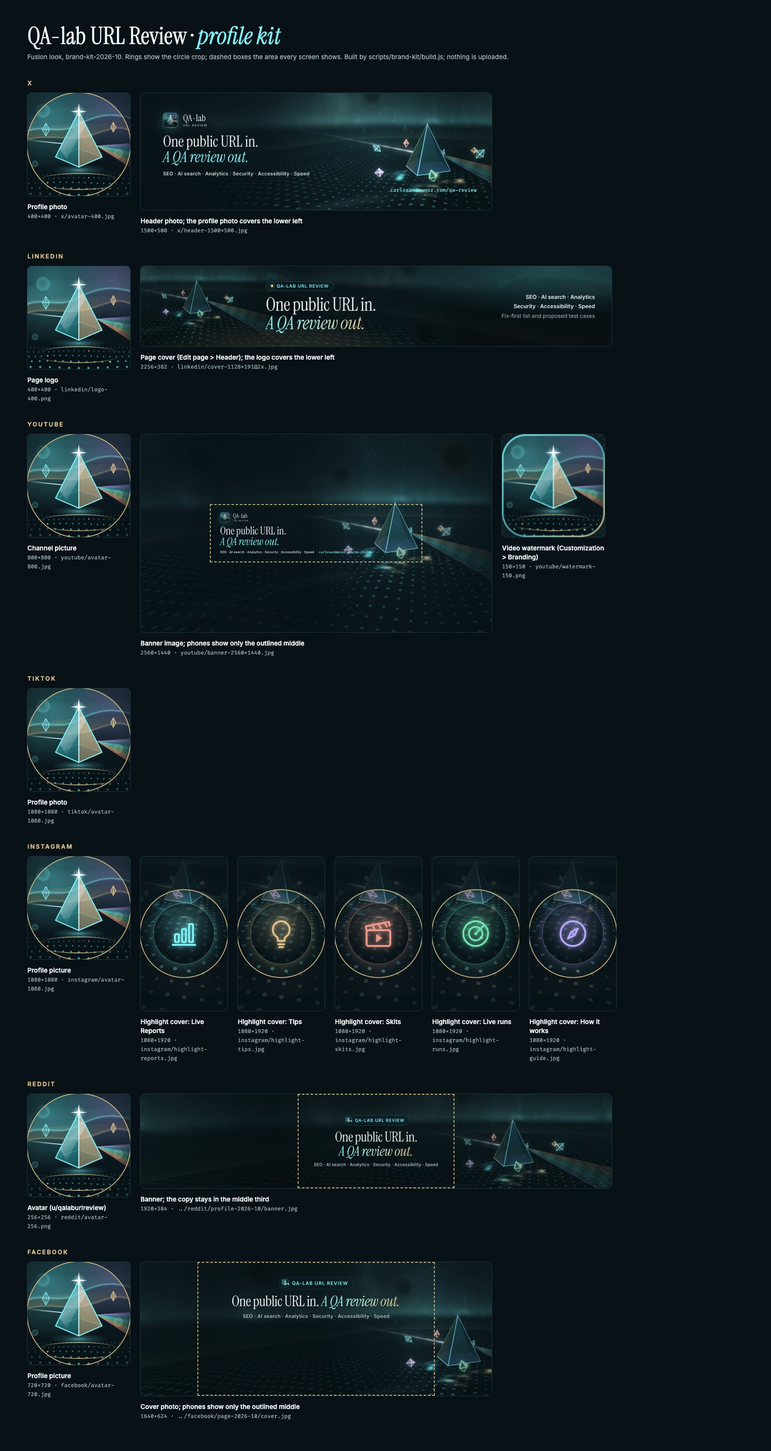
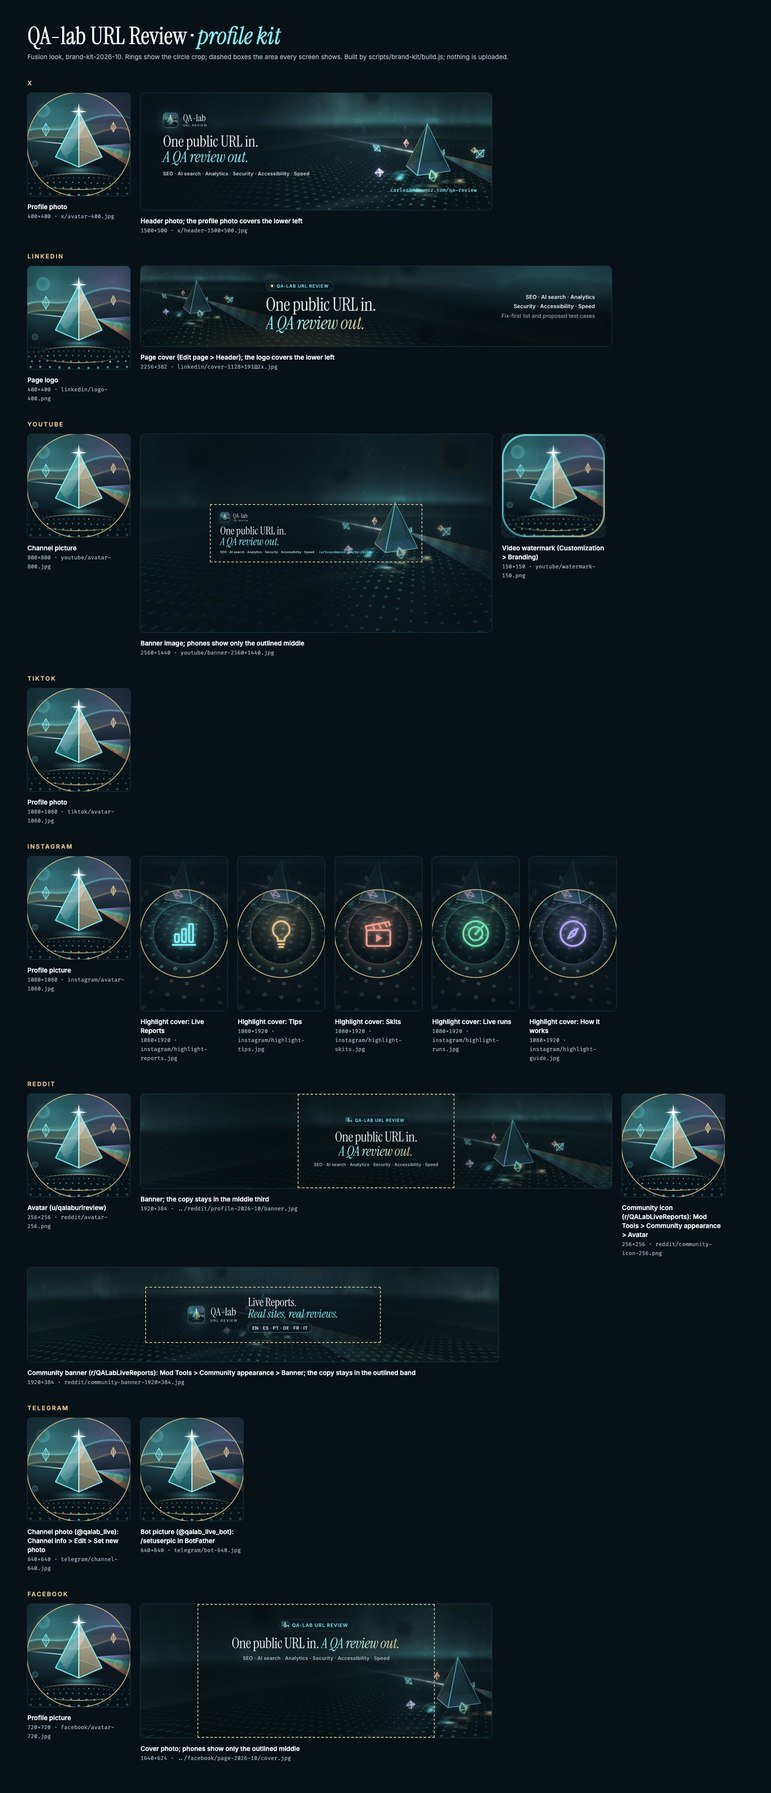
Kits: Live Reports links on Telegram and r/QALabLiveReports; Telegram and subreddit images in the brand kit (#2568)

diff --git a/scripts/brand-kit/build.js b/scripts/brand-kit/build.js
@@ -1,8 +1,9 @@
 #!/usr/bin/env node
 /* Renders the QA-lab URL Review profile kit in the Fusion look: avatars, banners and covers for X, LinkedIn,
-   YouTube, TikTok, Instagram, Reddit and Facebook, plus a contact sheet of the whole kit.
+   YouTube, TikTok, Instagram, Reddit and Facebook, the Live Reports channels on Telegram and r/QALabLiveReports
+   (#2568), plus a contact sheet of the whole kit.
 
-     node scripts/brand-kit/build.js [--batch brand-kit-2026-10]
+     node scripts/brand-kit/build.js [--batch brand-kit-2026-10] [--missing]   # --missing: only files not there yet
      node scripts/brand-kit/build.js --face en|es [--batch faces-2026-11/en]
      node scripts/brand-kit/build.js --face en|es --text   # kit.json and checklist.md only, images untouched
 
@@ -29,6 +30,7 @@ const FACE = faceAt >= 0 ? faces.FACES[argv[faceAt + 1]] : null;
 if (faceAt >= 0 && !FACE) throw new Error("--face takes " + Object.keys(faces.FACES).join(" or "));
 const TEXT = argv.includes("--text");
 if (TEXT && !FACE) throw new Error("--text takes --face");
+const MISSING = argv.includes("--missing");
 const BATCH = batchAt >= 0 && argv[batchAt + 1] ? argv[batchAt + 1] : FACE ? "faces-2026-11/" + FACE.id : "brand-kit-2026-10";
 const OUT = path.join(ROOT, "media", BATCH);
 
@@ -39,6 +41,8 @@ const THEMES = [
   { id: "runs", label: "Live runs", icon: "runs", accent: "#6fe3b1" },
   { id: "guide", label: "How it works", icon: "guide", accent: "#b9a8ff" }
 ];
+
+const LIVE = { lines: ["Live Reports.", "*Real sites, real reviews.*"], langs: "EN · ES · PT · DE · FR · IT" };
 
 // circle: the network crops the picture to a circle. fx: where the Fusion pyramid stands (see scripts/fusion/stage.js).
 const KIT = [
@@ -54,6 +58,11 @@ const KIT = [
   ...THEMES.map((theme) => ({ network: "Instagram", file: "instagram/highlight-" + theme.id + ".jpg", w: 1080, h: 1920, kind: "highlight", theme, fx: { subject: [0, 0.3], zoom: 2.4, t: 9.5 }, circle: "highlight", where: "Highlight cover: " + theme.label })),
   { network: "Reddit", file: "reddit/avatar-256.png", w: 256, h: 256, kind: "avatar", circle: true, where: "Avatar (u/qalaburlreview)" },
   { network: "Reddit", file: "media/reddit/profile-2026-10/banner.jpg", w: 1920, h: 384, studio: "reddit-studio", safe: [640, 0, 640, 384], where: "Banner; the copy stays in the middle third" },
+  { network: "Reddit", file: "reddit/community-icon-256.png", w: 256, h: 256, kind: "avatar", circle: true, where: "Community icon (r/QALabLiveReports): Mod Tools > Community appearance > Avatar" },
+  // Reddit crops a community banner to an 8:1 band (uploads of at least 1072x128 on desktop, 1080x128 in the apps).
+  { network: "Reddit", file: "reddit/community-banner-1920x384.jpg", w: 1920, h: 384, kind: "strip", copy: LIVE, fx: { subject: [0, 0], zoom: 1.6 }, safe: [480, 77, 960, 230], where: "Community banner (r/QALabLiveReports): Mod Tools > Community appearance > Banner; the copy stays in the outlined band" },
+  { network: "Telegram", file: "telegram/channel-640.jpg", w: 640, h: 640, kind: "avatar", circle: true, where: "Channel photo (@qalab_live): Channel info > Edit > Set new photo" },
+  { network: "Telegram", file: "telegram/bot-640.jpg", w: 640, h: 640, kind: "avatar", circle: true, where: "Bot picture (@qalab_live_bot): /setuserpic in BotFather" },
   { network: "Facebook", file: "facebook/avatar-720.jpg", w: 720, h: 720, kind: "avatar", circle: true, where: "Profile picture" },
   { network: "Facebook", file: "media/facebook/page-2026-10/cover.jpg", w: 1640, h: 624, studio: "facebook-studio", safe: [265, 0, 1109, 624], where: "Cover photo; phones show only the outlined middle" }
 ];
@@ -74,10 +83,14 @@ function account(n) {
   const links = [["Website", site], ["Social hub", hub]]
     .concat(FACE.extra ? [[FACE.extra.label, faces.SITE + FACE.extra.page + faces.utm(n.id, FACE.id)]] : [])
     .concat([[otherLangs, n.profile(other.handle)]]);
+  const cap = (label) => Number(((label || "").match(/\((\d+)\)/) || [])[1]);
+  // When only one channel fits, the one on the network's own app stays.
+  const channels = (room) => faces.CHANNELS.filter((c) => c.app === n.name).concat(faces.CHANNELS.filter((c) => c.app !== n.name))
+    .slice(0, Math.max(room, 0)).sort((a, b) => faces.CHANNELS.indexOf(a) - faces.CHANNELS.indexOf(b)).map((c) => [c.label[FACE.id], c.url]);
   const value = (key, label) => {
     if (FACE.bios[key]) {
       const text = FACE.bios[key].replace("{other}", n.mention(other.handle));
-      const max = Number((label.match(/\((\d+)\)/) || [])[1]) || faces.LIMITS[key];
+      const max = cap(label) || faces.LIMITS[key];
       if (text.length > max) throw new Error(FACE.id + " " + n.name + " " + label + ": " + text.length + " characters, over " + max);
       return text;
     }
@@ -88,7 +101,7 @@ function account(n) {
     if (key === "handle") return n.profile(FACE.handle).replace(/\/$/, "").split("/").pop().replace(/^@/, "");
     if (key === "site") return site;
     if (key === "email") return FACE.email;
-    if (key === "links") return links.slice(0, 5);
+    if (key === "links") return links.slice(0, cap(label) || 5).concat(channels((cap(label) || 5) - links.length));
     if (key === "fields") return links.slice(0, 3).concat([FACE.extra ? [otherLangs, n.profile(other.handle)] : ["Email", FACE.email]]).slice(0, 4);
     if (key === "highlights") return THEMES.map((t) => FACE.highlights[t.id]).join(", ");
     return key;
@@ -108,8 +121,10 @@ function account(n) {
 
 function checklist(accounts) {
   const block = (v) => "\n  ```text\n  " + String(v).split("\n").join("\n  ") + "\n  ```";
-  const field = (f) => Array.isArray(f.value)
-    ? "- [ ] " + f.label + ":\n" + f.value.map(([label, url]) => "  - " + label + ": " + url).join("\n")
+  const live = new Set(faces.CHANNELS.map((c) => c.url));
+  const added = (a, f) => a.state === "exists" && Array.isArray(f.value) ? f.value.filter(([, url]) => live.has(url)) : [];
+  const field = (a, f) => Array.isArray(f.value)
+    ? "- [ ] " + f.label + ":\n" + f.value.map(([label, url]) => "  - " + label + ": " + url + (added(a, f).some((l) => l[1] === url) ? " (new: add it to the live account)" : "")).join("\n")
     : "- [ ] " + f.label + ":" + block(f.value);
   const other = faces.FACES[FACE.other];
   return [
@@ -123,8 +138,9 @@ function checklist(accounts) {
     "## " + a.network + ": " + (a.state === "new" ? "new account" : "existing account") + ", " + a.profile,
     "",
     ...(a.state === "new" ? [] : ["- [ ] Log in and check the account email is `" + a.email + "`; change it in the account settings if not."]),
+    ...a.fields.filter((f) => added(a, f).length).map((f) => "- [ ] New for the live account (#2568): add " + added(a, f).map(([label, url]) => label + " (" + url + ")").join(" and ") + " to " + f.label + ", after the links it already has."),
     ...a.steps.map((s) => "- [ ] " + s),
-    ...a.fields.map(field),
+    ...a.fields.map((f) => field(a, f)),
     ...a.images.map((i) => "- [ ] Upload " + i.where + ": `" + i.file + "`"),
     "- [ ] Access: " + a.access,
     ""
@@ -189,14 +205,15 @@ async function main() {
     console.log("wrote", path.relative(ROOT, path.join(OUT, "kit.json")), "and checklist.md");
     return;
   }
-  for (const studio of new Set(kit.filter((i) => i.studio).map((i) => i.studio))) execFileSync(process.execPath, [path.join(ROOT, "scripts", studio, "build.js")], { stdio: "inherit" });
+  const render = (item) => !MISSING || !fs.existsSync(filePath(item));
+  for (const studio of new Set(kit.filter((i) => i.studio && render(i)).map((i) => i.studio))) execFileSync(process.execPath, [path.join(ROOT, "scripts", studio, "build.js")], { stdio: "inherit" });
 
   fs.mkdirSync(OUT, { recursive: true });
   const browser = await fusion.launch();
   const page = await browser.newPage({ deviceScaleFactor: 1 });
   await page.goto("file://" + path.join(__dirname, "frame.html"));
   const mark = { square: fusion.markUri(512, { square: true }), tile: fusion.markUri(512) };
-  for (const item of kit.filter(own)) {
+  for (const item of kit.filter(own).filter(render)) {
     if (FACE) {
       const bg = item.fx ? fusion.dataUri(await fusion.still(browser, Object.assign({ w: item.w, h: item.h, t: 6 }, item.fx))) : null;
       const p = item.scale ? await browser.newPage({ deviceScaleFactor: item.scale }) : page;
@@ -218,7 +235,7 @@ async function main() {
     }
     const bg = item.fx ? fusion.dataUri(await fusion.still(browser, Object.assign({ w: item.w, h: item.h, t: 6 }, item.fx))) : null;
     await page.setViewportSize({ width: item.w, height: item.h });
-    await page.evaluate((spec) => window.paint(spec), { kind: item.kind, w: item.w, h: item.h, bg, theme: item.theme, mark: item.kind === "watermark" ? mark.tile : mark.square });
+    await page.evaluate((spec) => window.paint(spec), { kind: item.kind, w: item.w, h: item.h, bg, theme: item.theme, safe: item.safe, copy: item.copy, mark: item.kind === "watermark" ? mark.tile : mark.square });
     await save(await page.locator("#c").screenshot({ omitBackground: item.kind === "watermark" }), item);
   }
 

diff --git a/media/brand-kit-2026-10/index.html b/media/brand-kit-2026-10/index.html
@@ -20,6 +20,7 @@
 <h2>YouTube</h2><div class="row"><figure style="width:240px"><div class="pic"><img src="youtube/avatar-800.jpg" style="width:240px" alt=""><i class="ring"></i></div><figcaption><b>Channel picture</b><span>800×800 · youtube/avatar-800.jpg</span></figcaption></figure><figure style="width:820px"><div class="pic"><img src="youtube/banner-2560x1440.jpg" style="width:820px" alt=""><i class="safe" style="left:19.8046875%;top:35.27777777777778%;width:60.390625%;height:29.375%"></i></div><figcaption><b>Banner image; phones show only the outlined middle</b><span>2560×1440 · youtube/banner-2560x1440.jpg</span></figcaption></figure><figure style="width:240px"><div class="pic"><img src="youtube/watermark-150.png" style="width:240px" alt=""></div><figcaption><b>Video watermark (Customization &gt; Branding)</b><span>150×150 · youtube/watermark-150.png</span></figcaption></figure></div>
 <h2>TikTok</h2><div class="row"><figure style="width:240px"><div class="pic"><img src="tiktok/avatar-1080.jpg" style="width:240px" alt=""><i class="ring"></i></div><figcaption><b>Profile photo</b><span>1080×1080 · tiktok/avatar-1080.jpg</span></figcaption></figure></div>
 <h2>Instagram</h2><div class="row"><figure style="width:240px"><div class="pic"><img src="instagram/avatar-1080.jpg" style="width:240px" alt=""><i class="ring"></i></div><figcaption><b>Profile picture</b><span>1080×1080 · instagram/avatar-1080.jpg</span></figcaption></figure><figure style="width:203px"><div class="pic"><img src="instagram/highlight-reports.jpg" style="width:203px" alt=""><i class="ring hl"></i></div><figcaption><b>Highlight cover: Live Reports</b><span>1080×1920 · instagram/highlight-reports.jpg</span></figcaption></figure><figure style="width:203px"><div class="pic"><img src="instagram/highlight-tips.jpg" style="width:203px" alt=""><i class="ring hl"></i></div><figcaption><b>Highlight cover: Tips</b><span>1080×1920 · instagram/highlight-tips.jpg</span></figcaption></figure><figure style="width:203px"><div class="pic"><img src="instagram/highlight-skits.jpg" style="width:203px" alt=""><i class="ring hl"></i></div><figcaption><b>Highlight cover: Skits</b><span>1080×1920 · instagram/highlight-skits.jpg</span></figcaption></figure><figure style="width:203px"><div class="pic"><img src="instagram/highlight-runs.jpg" style="width:203px" alt=""><i class="ring hl"></i></div><figcaption><b>Highlight cover: Live runs</b><span>1080×1920 · instagram/highlight-runs.jpg</span></figcaption></figure><figure style="width:203px"><div class="pic"><img src="instagram/highlight-guide.jpg" style="width:203px" alt=""><i class="ring hl"></i></div><figcaption><b>Highlight cover: How it works</b><span>1080×1920 · instagram/highlight-guide.jpg</span></figcaption></figure></div>
-<h2>Reddit</h2><div class="row"><figure style="width:240px"><div class="pic"><img src="reddit/avatar-256.png" style="width:240px" alt=""><i class="ring"></i></div><figcaption><b>Avatar (u/qalaburlreview)</b><span>256×256 · reddit/avatar-256.png</span></figcaption></figure><figure style="width:1100px"><div class="pic"><img src="../reddit/profile-2026-10/banner.jpg" style="width:1100px" alt=""><i class="safe" style="left:33.33333333333333%;top:0%;width:33.33333333333333%;height:100%"></i></div><figcaption><b>Banner; the copy stays in the middle third</b><span>1920×384 · ../reddit/profile-2026-10/banner.jpg</span></figcaption></figure></div>
+<h2>Reddit</h2><div class="row"><figure style="width:240px"><div class="pic"><img src="reddit/avatar-256.png" style="width:240px" alt=""><i class="ring"></i></div><figcaption><b>Avatar (u/qalaburlreview)</b><span>256×256 · reddit/avatar-256.png</span></figcaption></figure><figure style="width:1100px"><div class="pic"><img src="../reddit/profile-2026-10/banner.jpg" style="width:1100px" alt=""><i class="safe" style="left:33.33333333333333%;top:0%;width:33.33333333333333%;height:100%"></i></div><figcaption><b>Banner; the copy stays in the middle third</b><span>1920×384 · ../reddit/profile-2026-10/banner.jpg</span></figcaption></figure><figure style="width:240px"><div class="pic"><img src="reddit/community-icon-256.png" style="width:240px" alt=""><i class="ring"></i></div><figcaption><b>Community icon (r/QALabLiveReports): Mod Tools &gt; Community appearance &gt; Avatar</b><span>256×256 · reddit/community-icon-256.png</span></figcaption></figure><figure style="width:1100px"><div class="pic"><img src="reddit/community-banner-1920x384.jpg" style="width:1100px" alt=""><i class="safe" style="left:25%;top:20.052083333333336%;width:50%;height:59.895833333333336%"></i></div><figcaption><b>Community banner (r/QALabLiveReports): Mod Tools &gt; Community appearance &gt; Banner; the copy stays in the outlined band</b><span>1920×384 · reddit/community-banner-1920x384.jpg</span></figcaption></figure></div>
+<h2>Telegram</h2><div class="row"><figure style="width:240px"><div class="pic"><img src="telegram/channel-640.jpg" style="width:240px" alt=""><i class="ring"></i></div><figcaption><b>Channel photo (@qalab_live): Channel info &gt; Edit &gt; Set new photo</b><span>640×640 · telegram/channel-640.jpg</span></figcaption></figure><figure style="width:240px"><div class="pic"><img src="telegram/bot-640.jpg" style="width:240px" alt=""><i class="ring"></i></div><figcaption><b>Bot picture (@qalab_live_bot): /setuserpic in BotFather</b><span>640×640 · telegram/bot-640.jpg</span></figcaption></figure></div>
 <h2>Facebook</h2><div class="row"><figure style="width:240px"><div class="pic"><img src="facebook/avatar-720.jpg" style="width:240px" alt=""><i class="ring"></i></div><figcaption><b>Profile picture</b><span>720×720 · facebook/avatar-720.jpg</span></figcaption></figure><figure style="width:820px"><div class="pic"><img src="../facebook/page-2026-10/cover.jpg" style="width:820px" alt=""><i class="safe" style="left:16.158536585365855%;top:0%;width:67.6219512195122%;height:100%"></i></div><figcaption><b>Cover photo; phones show only the outlined middle</b><span>1640×624 · ../facebook/page-2026-10/cover.jpg</span></figcaption></figure></div>
 </body></html>

diff --git a/scripts/brand-kit/faces.js b/scripts/brand-kit/faces.js
@@ -110,7 +110,7 @@ const NETWORKS = [
     exists: { en: true, es: false },
     profile: (h) => "https://www.youtube.com/@" + h,
     mention: (h) => "@" + h,
-    fields: [["Name", "name"], ["Handle", "handle"], ["Description (1000)", "long"], ["Links", "links"], ["Contact email", "email"]],
+    fields: [["Name", "name"], ["Handle", "handle"], ["Description (1000)", "long"], ["Links (14)", "links"], ["Contact email", "email"]],
     images: [
       { file: "avatar-800.jpg", w: 800, h: 800, kind: "avatar", circle: true, where: "Picture" },
       { file: "banner-2560x1440.jpg", w: 2560, h: 1440, kind: "youtube", fx: { subject: [0.4, 0.02], zoom: 2.6 }, safe: [507, 508, 1546, 423], where: "Banner image; phones show only the outlined middle" },
@@ -253,10 +253,11 @@ const ordered = () => ORDER.map((id) => NETWORKS.find((n) => n.id === id));
 const accounts = (face) => ordered().filter((n) => n.exists[face.id]).map((n) => ({ net: n.id, name: n.label || n.name, url: n.profile(face.handle) }));
 
 // The brand's own Live Reports channels (#2549), in every language, so they belong to neither face: a Telegram
-// channel with the @qalab_live_bot Mini App, and a subreddit with the Devvit app. Listed after both faces' accounts.
+// channel with the @qalab_live_bot Mini App, and a subreddit with the Devvit app. Listed after both faces' accounts,
+// and after a face's own links in the kits' link lists, under label[face].
 const CHANNELS = [
-  { net: "telegram", name: "Telegram", app: "Telegram", mention: "@qalab_live", url: "https://t.me/qalab_live" },
-  { net: "subreddit", name: "r/QALabLiveReports", app: "Reddit", mention: "r/QALabLiveReports", url: "https://www.reddit.com/r/QALabLiveReports/" }
+  { net: "telegram", name: "Telegram", app: "Telegram", mention: "@qalab_live", url: "https://t.me/qalab_live", label: { en: "Live Reports on Telegram", es: "Informes en vivo en Telegram" } },
+  { net: "subreddit", name: "r/QALabLiveReports", app: "Reddit", mention: "r/QALabLiveReports", url: "https://www.reddit.com/r/QALabLiveReports/", label: { en: "r/QALabLiveReports", es: "r/QALabLiveReports" } }
 ];
 
 module.exports = { SITE, LIMITS, FACES, NETWORKS, ORDER, CHANNELS, ordered, accounts, utm };

diff --git a/tests/unit/face-pages.test.js b/tests/unit/face-pages.test.js
@@ -70,6 +70,29 @@ test("profile links in the kits point at the face pages", () => {
   }
 });
 
+test("the YouTube, Reddit and Instagram kits list the Telegram channel and the subreddit after the face's links, within each list's limit", () => {
+  for (const face of faces) {
+    const kit = JSON.parse(read("media/faces-2026-11/" + face.id + "/kit.json"));
+    const checklist = read("media/faces-2026-11/" + face.id + "/checklist.md");
+    for (const network of ["YouTube", "Reddit", "Instagram"]) {
+      const account = kit.face.accounts.find((a) => a.network === network);
+      const field = account.fields.find((f) => /links/i.test(f.label));
+      const max = Number(field.label.match(/\((\d+)\)/)[1]);
+      const name = face.id + " " + network + " " + field.label;
+      const own = field.value.filter(([, url]) => !CHANNELS.some((c) => c.url === url));
+      const listed = CHANNELS.filter((c) => field.value.some(([label, url]) => url === c.url && label === c.label[face.id]));
+      assert.ok(field.value.length <= max, name + ": " + field.value.length + " links");
+      assert.deepEqual(field.value.slice(0, own.length), own, name + ": the channels come after the face's links");
+      assert.equal(listed.length, Math.min(CHANNELS.length, max - own.length), name + ": " + listed.map((c) => c.net));
+      if (listed.length < CHANNELS.length) assert.ok(listed.every((c) => c.app === network) || !CHANNELS.some((c) => c.app === network), name + " keeps the channel on its own app");
+      for (const c of listed) {
+        assert.ok(checklist.includes(c.label[face.id] + ": " + c.url), name + " checklist lists " + c.url);
+        if (account.state === "exists") assert.ok(checklist.includes(c.label[face.id] + ": " + c.url + " (new: add it to the live account)"), name + " checklist marks " + c.url + " as new");
+      }
+    }
+  }
+});
+
 test("the sitemap lists both face pages as language alternates", () => {
   const xml = read("sitemap.xml");
   for (const face of faces) {

diff --git a/media/faces-2026-11/en/checklist.md b/media/faces-2026-11/en/checklist.md
@@ -26,6 +26,7 @@ Built by `node scripts/brand-kit/build.js --face en`; the contact sheet is `medi
 ## YouTube: existing account, https://www.youtube.com/@qalaburlreview
 
 - [ ] Log in and check the account email is `qalaburlreview@carlosandmunoz.com`; change it in the account settings if not.
+- [ ] New for the live account (#2568): add Live Reports on Telegram (https://t.me/qalab_live) and r/QALabLiveReports (https://www.reddit.com/r/QALabLiveReports/) to Links (14), after the links it already has.
 - [ ] Verify the channel by phone (youtube.com/verify) so custom thumbnails and videos over 15 minutes work.
 - [ ] Name:
   ```text
@@ -43,10 +44,12 @@ Built by `node scripts/brand-kit/build.js --face en`; the contact sheet is `medi
   
   En español y português: @qaurlreview
   ```
-- [ ] Links:
+- [ ] Links (14):
   - Website: https://carlosandmunoz.com/qalaburlreview.html?utm_source=youtube&utm_medium=profile&utm_campaign=profile-link&utm_content=face-en
   - Social hub: https://carlosandmunoz.com/qa-review-social.html?utm_source=youtube&utm_medium=profile&utm_campaign=profile-link&utm_content=face-en
   - ES · PT: https://www.youtube.com/@qaurlreview
+  - Live Reports on Telegram: https://t.me/qalab_live (new: add it to the live account)
+  - r/QALabLiveReports: https://www.reddit.com/r/QALabLiveReports/ (new: add it to the live account)
 - [ ] Contact email:
   ```text
   qalaburlreview@carlosandmunoz.com
@@ -78,6 +81,7 @@ Built by `node scripts/brand-kit/build.js --face en`; the contact sheet is `medi
 ## Reddit: existing account, https://www.reddit.com/user/qalaburlreview/
 
 - [ ] Log in and check the account email is `qalaburlreview@carlosandmunoz.com`; change it in the account settings if not.
+- [ ] New for the live account (#2568): add Live Reports on Telegram (https://t.me/qalab_live) and r/QALabLiveReports (https://www.reddit.com/r/QALabLiveReports/) to Social links (5), after the links it already has.
 - [ ] Display name:
   ```text
   QA-lab URL Review
@@ -90,6 +94,8 @@ Built by `node scripts/brand-kit/build.js --face en`; the contact sheet is `medi
   - Website: https://carlosandmunoz.com/qalaburlreview.html?utm_source=reddit&utm_medium=profile&utm_campaign=profile-link&utm_content=face-en
   - Social hub: https://carlosandmunoz.com/qa-review-social.html?utm_source=reddit&utm_medium=profile&utm_campaign=profile-link&utm_content=face-en
   - ES · PT: https://www.reddit.com/user/qaurlreview/
+  - Live Reports on Telegram: https://t.me/qalab_live (new: add it to the live account)
+  - r/QALabLiveReports: https://www.reddit.com/r/QALabLiveReports/ (new: add it to the live account)
 - [ ] Upload Avatar: `media/faces-2026-11/en/reddit/avatar-256.png`
 - [ ] Upload Banner; the copy stays in the middle third: `media/faces-2026-11/en/reddit/banner-1920x384.jpg`
 - [ ] Access: None: Reddit posts stay manual.
@@ -208,6 +214,8 @@ Built by `node scripts/brand-kit/build.js --face en`; the contact sheet is `medi
   - Website: https://carlosandmunoz.com/qalaburlreview.html?utm_source=instagram&utm_medium=profile&utm_campaign=profile-link&utm_content=face-en
   - Social hub: https://carlosandmunoz.com/qa-review-social.html?utm_source=instagram&utm_medium=profile&utm_campaign=profile-link&utm_content=face-en
   - ES · PT: https://www.instagram.com/qaurlreview/
+  - Live Reports on Telegram: https://t.me/qalab_live
+  - r/QALabLiveReports: https://www.reddit.com/r/QALabLiveReports/
 - [ ] Highlight names:
   ```text
   Live Reports, Tips, Skits, Live runs, How it works

diff --git a/media/faces-2026-11/es/checklist.md b/media/faces-2026-11/es/checklist.md
@@ -45,11 +45,13 @@ Built by `node scripts/brand-kit/build.js --face es`; the contact sheet is `medi
   
   English, Deutsch, Français, Italiano: @qalaburlreview
   ```
-- [ ] Links:
+- [ ] Links (14):
   - Website: https://carlosandmunoz.com/qaurlreview.html?utm_source=youtube&utm_medium=profile&utm_campaign=profile-link&utm_content=face-es
   - Social hub: https://carlosandmunoz.com/qa-review-social-es.html?utm_source=youtube&utm_medium=profile&utm_campaign=profile-link&utm_content=face-es
   - Português: https://carlosandmunoz.com/qa-review-pt.html?utm_source=youtube&utm_medium=profile&utm_campaign=profile-link&utm_content=face-es
   - EN · DE · FR · IT: https://www.youtube.com/@qalaburlreview
+  - Informes en vivo en Telegram: https://t.me/qalab_live
+  - r/QALabLiveReports: https://www.reddit.com/r/QALabLiveReports/
 - [ ] Contact email:
   ```text
   qaurlreview@carlosandmunoz.com
@@ -94,6 +96,7 @@ Built by `node scripts/brand-kit/build.js --face es`; the contact sheet is `medi
   - Social hub: https://carlosandmunoz.com/qa-review-social-es.html?utm_source=reddit&utm_medium=profile&utm_campaign=profile-link&utm_content=face-es
   - Português: https://carlosandmunoz.com/qa-review-pt.html?utm_source=reddit&utm_medium=profile&utm_campaign=profile-link&utm_content=face-es
   - EN · DE · FR · IT: https://www.reddit.com/user/qalaburlreview/
+  - r/QALabLiveReports: https://www.reddit.com/r/QALabLiveReports/
 - [ ] Upload Avatar: `media/faces-2026-11/es/reddit/avatar-256.png`
 - [ ] Upload Banner; the copy stays in the middle third: `media/faces-2026-11/es/reddit/banner-1920x384.jpg`
 - [ ] Access: None: Reddit posts stay manual.
@@ -201,6 +204,7 @@ Built by `node scripts/brand-kit/build.js --face es`; the contact sheet is `medi
 ## Instagram: existing account, https://www.instagram.com/qaurlreview/
 
 - [ ] Log in and check the account email is `qaurlreview@carlosandmunoz.com`; change it in the account settings if not.
+- [ ] New for the live account (#2568): add Informes en vivo en Telegram (https://t.me/qalab_live) to Links (5), after the links it already has.
 - [ ] Settings > Account type and tools > Switch to professional account (Business), then link the face's Facebook Page.
 - [ ] Name:
   ```text
@@ -215,6 +219,7 @@ Built by `node scripts/brand-kit/build.js --face es`; the contact sheet is `medi
   - Social hub: https://carlosandmunoz.com/qa-review-social-es.html?utm_source=instagram&utm_medium=profile&utm_campaign=profile-link&utm_content=face-es
   - Português: https://carlosandmunoz.com/qa-review-pt.html?utm_source=instagram&utm_medium=profile&utm_campaign=profile-link&utm_content=face-es
   - EN · DE · FR · IT: https://www.instagram.com/qalaburlreview/
+  - Informes en vivo en Telegram: https://t.me/qalab_live (new: add it to the live account)
 - [ ] Highlight names:
   ```text
   Informes en vivo, Consejos, Sketches, En directo, Cómo funciona
